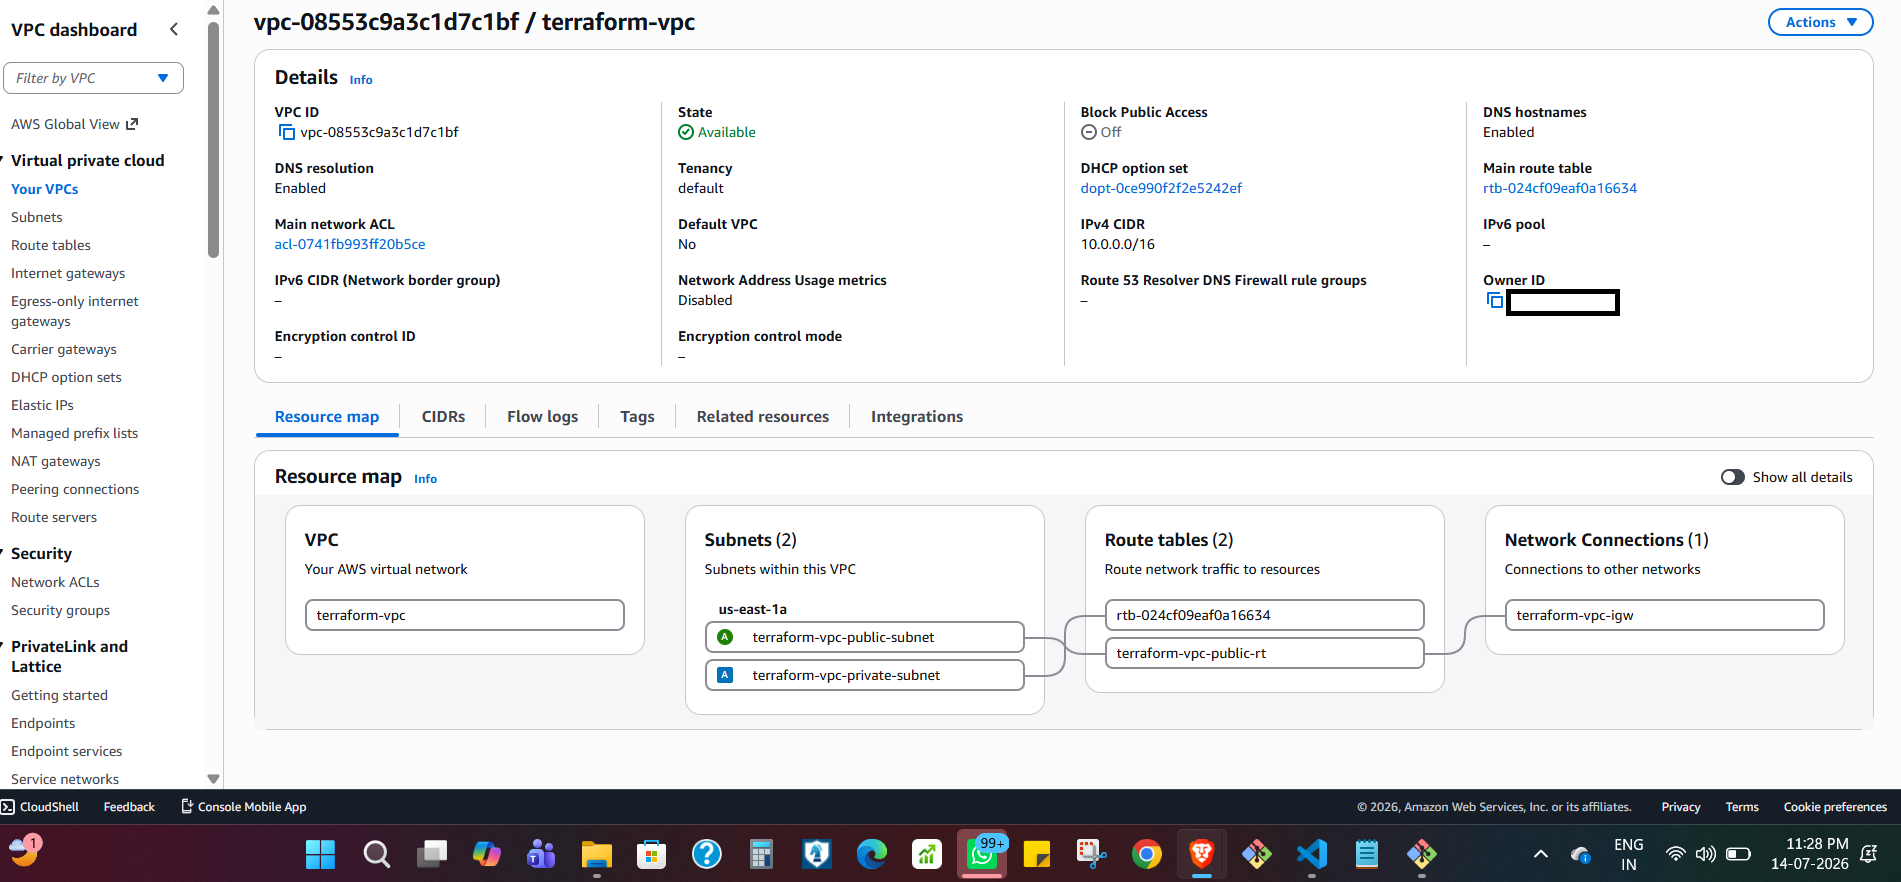
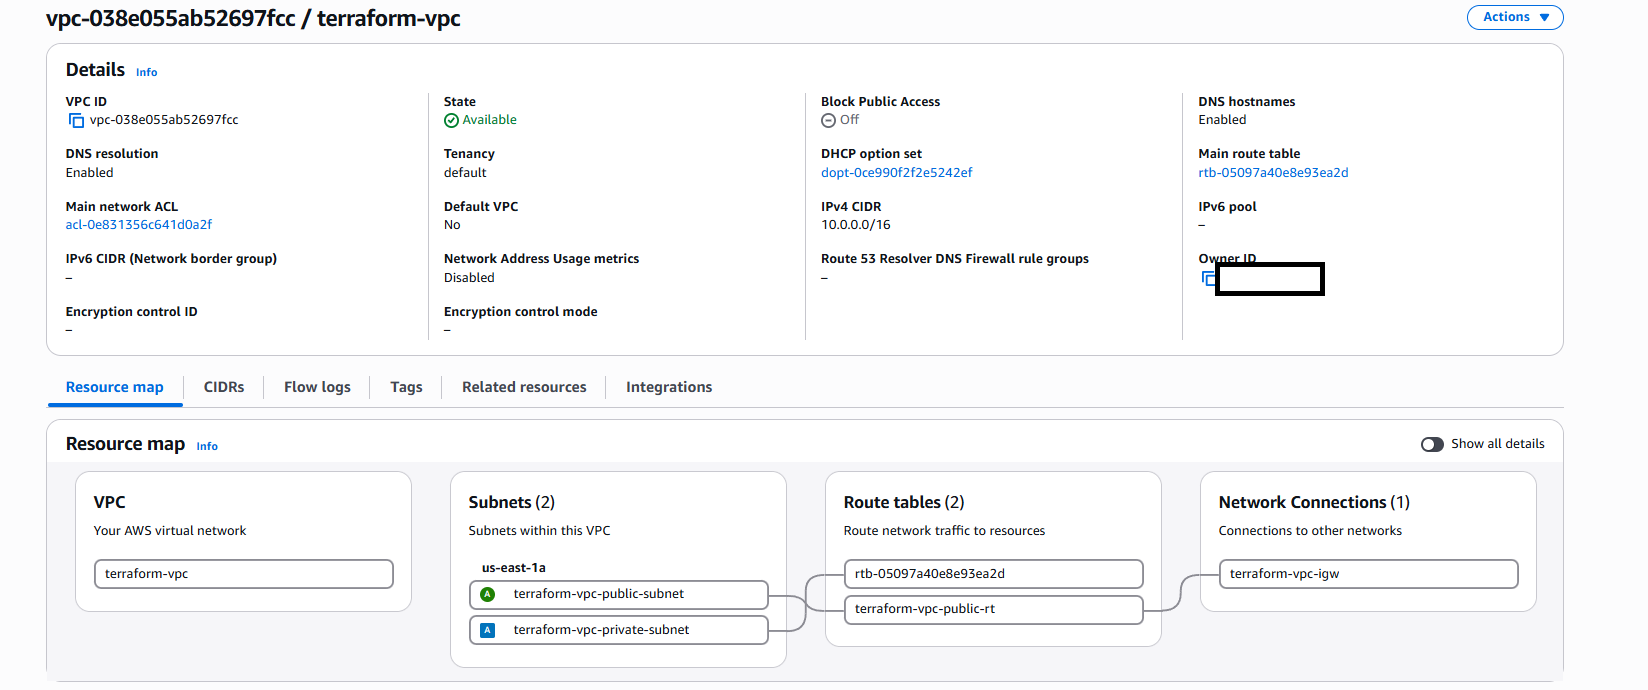
fnalupdat

diff --git a/README.md b/README.md
@@ -70,57 +70,48 @@ terraform-aws-multitier/
 │   └── ec2/
 │
 └── screenshots/
+```
+
 The Terraform configuration is separated by responsibility:
 
-provider.tf — configures the AWS provider.
+- `provider.tf` — configures the AWS provider.
+- `versions.tf` — defines Terraform and provider version requirements.
+- `variables.tf` — declares input variables used by the root configuration.
+- `terraform.tfvars` — supplies environment-specific variable values and is excluded from version control.
+- `main.tf` — connects and invokes the Terraform modules (instantiating the EC2 module for both public bastion and private workloads).
+- `data.tf` — defines data sources used to retrieve existing AWS information.
+- `outputs.tf` — exposes selected infrastructure values after deployment.
+- `modules/vpc/` — contains the VPC and networking configuration.
+- `modules/security-group/` — contains Security Group configuration.
+- `modules/ec2/` — contains reusable EC2 provisioning configuration supporting conditional public IP assignment.
 
-versions.tf — defines Terraform and provider version requirements.
+## Infrastructure Provisioned
 
-variables.tf — declares input variables used by the root configuration.
-
-terraform.tfvars — supplies environment-specific variable values and is excluded from version control.
-
-main.tf — connects and invokes the Terraform modules (instantiating the EC2 module for both public bastion and private workloads).
-
-data.tf — defines data sources used to retrieve existing AWS information.
-
-outputs.tf — exposes selected infrastructure values after deployment.
-
-modules/vpc/ — contains the VPC and networking configuration.
-
-modules/security-group/ — contains Security Group configuration.
-
-modules/ec2/ — contains reusable EC2 provisioning configuration supporting conditional public IP assignment.
-
-Infrastructure Provisioned
 The Terraform configuration provisions the infrastructure required by the project, including:
 
-Custom VPC
-
-Public and private subnet resources
-
-Internet Gateway
-
-Route table configuration
-
-Route table associations
-
-Security Groups
-
-Public Amazon EC2 Bastion host
-
-Isolated private Amazon EC2 instance
+- Custom VPC
+- Public and private subnet resources
+- Internet Gateway
+- Route table configuration
+- Route table associations
+- Security Groups
+- Public Amazon EC2 Bastion host
+- Isolated private Amazon EC2 instance
 
 The exact infrastructure configuration is controlled through the Terraform root configuration and module inputs.
 
-Technical Decisions and Considerations
-Modular Terraform Structure
+## Technical Decisions and Considerations
+
+### Modular Terraform Structure
+
 The infrastructure is divided into separate modules for:
 
-Plaintext
+```text
 VPC
 Security Groups
 EC2
+```
+
 This separates networking, security, and compute configuration instead of defining every resource in a single Terraform file.
 
 The root module connects these components by passing outputs from one module as inputs to another where required, and reuses the EC2 module across different subnets.
@@ -129,174 +120,228 @@ For example, networking resources must exist before resources that depend on VPC
 
 This structure was used to gain practical experience with Terraform module composition and resource relationships.
 
-Variables for Configuration
+### Variables for Configuration
+
 Input variables are used to avoid hardcoding configurable values throughout the Terraform resources.
 
 Values can be supplied through:
 
-Plaintext
+```text
 terraform.tfvars
+```
+
 and passed from the root configuration into the individual modules.
 
 This separates configurable infrastructure values from the underlying resource definitions.
 
-The terraform.tfvars file is excluded from version control through .gitignore to avoid committing environment-specific values to the repository.
+The `terraform.tfvars` file is excluded from version control through `.gitignore` to avoid committing environment-specific values to the repository.
 
-Module Inputs and Outputs
+### Module Inputs and Outputs
+
 Terraform module outputs are used to pass resource information between different parts of the configuration.
 
 For example, a resource created by the VPC module can expose its ID as an output, allowing another module to use that value without duplicating or hardcoding the resource identifier.
 
 This demonstrates how independently organized Terraform modules can be connected through explicit inputs and outputs.
 
-Dynamic AMI Selection
+### Dynamic AMI Selection
+
 The project uses a Terraform data source to retrieve the required Amazon Linux AMI instead of hardcoding a specific AMI ID.
 
 This avoids tying the configuration to a manually copied AMI identifier and demonstrates how Terraform can query existing AWS information during planning.
 
 The selected AMI should still be reviewed when applying the configuration because dynamically selected images can change over time depending on the data source filters.
 
-Declarative Infrastructure Management
+### Declarative Infrastructure Management
+
 The AWS resources are defined through Terraform configuration rather than being created individually through the AWS Management Console.
 
 The intended infrastructure changes can be reviewed before deployment using:
 
-Bash
+```bash
 terraform plan
+```
+
 Terraform compares the declared configuration with the infrastructure recorded in its state and determines the actions required to reach the desired configuration.
 
-Resource Dependencies
+### Resource Dependencies
+
 Dependencies between infrastructure components are expressed through Terraform resource references and module inputs.
 
 For example, resources that require a VPC, subnet, or Security Group reference use values produced by the corresponding resources or modules.
 
 This allows Terraform to determine the dependency order required during provisioning instead of relying on a manually defined resource creation sequence.
 
-Local State Management
+### Local State Management
+
 This project currently uses local Terraform state.
 
-The local state files are excluded from version control through .gitignore and remain on the machine where Terraform is executed.
+The local state files are excluded from version control through `.gitignore` and remain on the machine where Terraform is executed.
 
 Local state is sufficient for the scope of this single-person learning project, but it would not be appropriate for a collaborative environment where multiple engineers need to manage the same infrastructure.
 
 For a shared environment, a remote backend such as Amazon S3 could provide centralized state storage together with an appropriate state-locking mechanism to prevent conflicting concurrent Terraform operations.
 
-Terraform Workflow
-1. Initialize
+## Terraform Workflow
+
+### 1. Initialize
+
 Initialize the working directory and download the required provider plugins:
 
-Bash
+```bash
 terraform init
-2. Format
+```
+
+### 2. Format
+
 Format the Terraform configuration:
 
-Bash
+```bash
 terraform fmt -recursive
-3. Validate
+```
+
+### 3. Validate
+
 Check the configuration for syntax and internal consistency:
 
-Bash
+```bash
 terraform validate
+```
+
 Expected successful validation:
 
-Plaintext
+```text
 Success! The configuration is valid.
-4. Review the Plan
+```
+
+### 4. Review the Plan
+
 Preview the infrastructure changes:
 
-Bash
+```bash
 terraform plan
+```
+
 The execution plan should be reviewed before applying changes to understand which resources Terraform intends to create, modify, or destroy.
 
-5. Provision the Infrastructure
+### 5. Provision the Infrastructure
+
 Apply the configuration:
 
-Bash
+```bash
 terraform apply
+```
+
 Review the proposed changes and confirm the apply when ready.
 
-6. Review Outputs
+### 6. Review Outputs
+
 After provisioning, view the configured Terraform outputs:
 
-Bash
+```bash
 terraform output
+```
+
 Outputs provide selected information about resources created by the configuration.
 
-7. Destroy the Infrastructure
+### 7. Destroy the Infrastructure
+
 When the environment is no longer required:
 
-Bash
+```bash
 terraform destroy
+```
+
 Review the destruction plan before confirming removal of the Terraform-managed resources.
 
-Verification
+## Verification
+
 The Terraform configuration was verified through the standard Terraform workflow.
 
 Configuration validation:
 
-Bash
+```bash
 terraform validate
+```
+
 Infrastructure change preview:
 
-Bash
+```bash
 terraform plan
+```
+
 Provisioning:
 
-Bash
+```bash
 terraform apply
+```
+
 Configured outputs:
 
-Bash
+```bash
 terraform output
+```
+
 The AWS Management Console was also used to verify that the expected VPC, subnet, routing, Security Group, and multi-tier EC2 resources were created after the Terraform apply completed.
 
 The following were verified during the project:
 
-Terraform configuration passed terraform validate.
+- Terraform configuration passed `terraform validate`.
+- Terraform generated an execution plan before deployment.
+- AWS resources were provisioned through `terraform apply`.
+- VPC networking resources were created successfully.
+- Security Group resources were created successfully.
+- Multi-tier EC2 resources (Bastion and private instance) were provisioned successfully with proper public/private IP configurations.
+- Terraform outputs returned the configured resource information.
 
-Terraform generated an execution plan before deployment.
+## Selected Project Evidence
 
-AWS resources were provisioned through terraform apply.
-
-VPC networking resources were created successfully.
-
-Security Group resources were created successfully.
-
-Multi-tier EC2 resources (Bastion and private instance) were provisioned successfully with proper public/private IP configurations.
-
-Terraform outputs returned the configured resource information.
-
-Selected Project Evidence
 The following screenshots highlight the main Terraform and AWS provisioning results.
 
-Terraform Execution Plan
+### Terraform Execution Plan
+
+![Terraform Plan](screenshots/terraform-plan.png)
+
 Shows the Terraform execution plan used to review proposed infrastructure changes before provisioning.
 
-Terraform Apply
+### Terraform Apply
+
+![Terraform Apply](screenshots/terraform-apply.png)
+
 Shows successful infrastructure provisioning through the Terraform apply workflow.
 
-VPC
+### VPC
+
+![VPC](screenshots/vpc.png)
+
 Shows the VPC provisioned through the Terraform configuration.
 
-Security Group
+### Security Group
+
+![Security Group](screenshots/security-group.png)
+
 Shows the Security Group provisioned for instance-level network access.
 
-EC2 Instance
-Shows the EC2 instances provisioned through the reusable Terraform EC2 module.
+### EC2 Instances
 
-Additional screenshots, including the project structure, subnet resources, and route table configuration, are retained in the screenshots/ directory as supporting project evidence.
+![EC2](screenshots/ec2.png)
 
-Limitations and Next Steps
+Shows the EC2 instances (public bastion host and private instance) provisioned through the reusable Terraform EC2 module.
+
+Additional screenshots, including the project structure, subnet resources, and route table configuration, are retained in the `screenshots/` directory as supporting project evidence.
+
+## Limitations and Next Steps
+
 The project focuses on Terraform fundamentals, modular infrastructure design, and automated AWS resource provisioning.
 
 Current limitations and relevant next steps include:
 
-State management: This project currently uses local Terraform state, which is appropriate for a single-person learning environment but does not scale well to collaborative infrastructure management. A remote backend such as Amazon S3 could provide centralized state storage, together with an appropriate state-locking mechanism for concurrent-safe operations in a shared environment.
+- **State management:** This project currently uses local Terraform state, which is appropriate for a single-person learning environment but does not scale well to collaborative infrastructure management. A remote backend such as Amazon S3 could provide centralized state storage, together with an appropriate state-locking mechanism for concurrent-safe operations in a shared environment.
 
-Private subnet connectivity: A NAT Gateway could be added if workloads in private subnets require outbound internet access while remaining inaccessible to direct inbound internet connections.
+- **Private subnet connectivity:** A NAT Gateway could be added if workloads in private subnets require outbound internet access while remaining inaccessible to direct inbound internet connections.
 
-Workload architecture: The current project focuses on core networking and multi-tier EC2 provisioning. Load balancing and Auto Scaling could be added if the infrastructure is extended to host a highly available application workload.
+- **Workload architecture:** The current project focuses on core networking and multi-tier EC2 provisioning. Load balancing and Auto Scaling could be added if the infrastructure is extended to host a highly available application workload.
 
-Environment separation: Separate Terraform configurations, variable files, or another environment-management strategy could be introduced if the project is expanded to manage environments such as development, staging, and production.
+- **Environment separation:** Separate Terraform configurations, variable files, or another environment-management strategy could be introduced if the project is expanded to manage environments such as development, staging, and production.
 
 These improvements are intentionally kept outside the current scope so that the project remains focused on understanding Terraform modules, dependencies, local state, data sources, and the infrastructure provisioning lifecycle.
